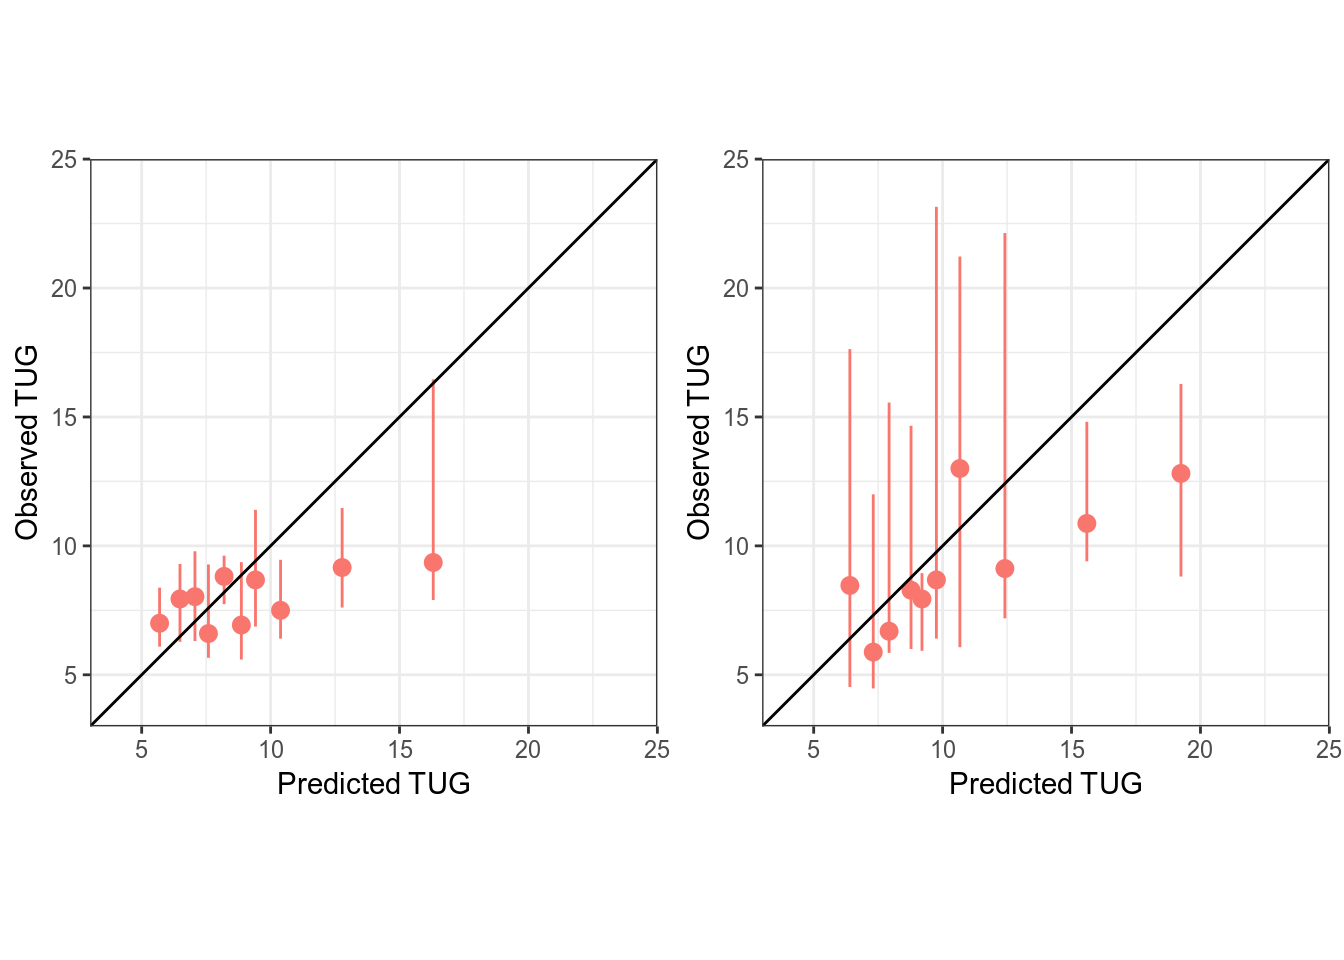
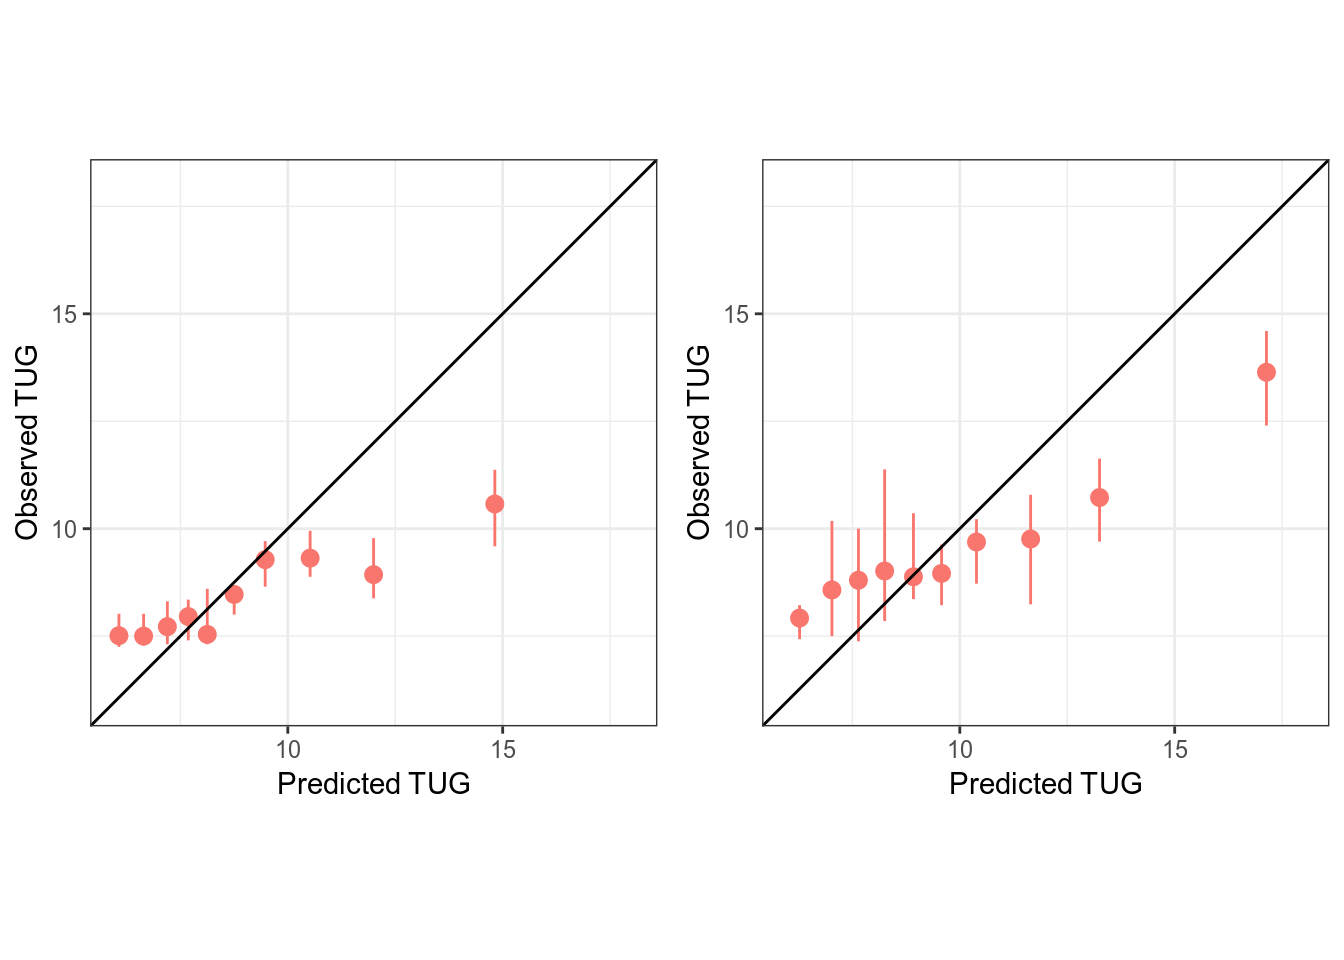
Remove the intervaled loocv_function() run.. need to add appropriate functionality

diff --git a/readme.md b/readme.md
@@ -120,7 +120,7 @@ test_proc %>% str(max.level=1)
 res <- loocv_function(
   
   # specify number or vector of numbers from {1,...,total number of patients in training data} 
-  nearest_n = c(13:14),
+  nearest_n = c(35:37),
   # enter training and testing post operative and fitted y90 dataset
   train_post = test_proc$train_post,
   ord_data = test_proc$train_o,
@@ -129,7 +129,6 @@ res <- loocv_function(
   # Specify outcome variable and time variable name
   outcome = "tug",
   time_elapsed = "time",
-  interval = 10,
 
   # Specify number of cores for parallel processing
   parallel=3,
@@ -146,78 +145,78 @@ res <- loocv_function(
   d_f_s=1,
   
   # Specify distribution for location, scale and shape 
-  #dist_fam = gamlss.dist::NO)
   dist_fam = gamlss.dist::NO)
-## PREDICTING FOR TEST = 408
-## PREDICTING FOR TEST = 443
-## PREDICTING FOR TEST = 604
-## PREDICTING FOR TEST = 450
-## PREDICTING FOR TEST = 492
-## PREDICTING FOR TEST = 536
-## Current count is: 1
-## PREDICTING FOR TEST = 516
-## PREDICTING FOR TEST = 595
-## PREDICTING FOR TEST = 564
-## Current count is: 11
-## Current count is: 21
-## Current count is: 31
-## PREDICTING FOR TEST = 565
-## Current count is: 41
-## Current count is: 51
-## PREDICTING FOR TEST = 411
-## Current count is: 61
-## PREDICTING FOR TEST = 574
-## Current count is: 71
-## PREDICTING FOR TEST = 493
-## PREDICTING FOR TEST = 541
-## Current count is: 81
 ## Warning in predict.gamlss(obj, what = "sigma", newdata = newx, type = "response", : There is a discrepancy  between the original and the re-fit 
 ##  used to achieve 'safe' predictions 
 ## 
-## Current count is: 91
-## PREDICTING FOR TEST = 531
-## Current count is: 101
-## Current count is: 111
-## PREDICTING FOR TEST = 520
-## Current count is: 121
-## Current count is: 131
-## Current count is: 141
-## Current count is: 151
-## Current count is: 161
-## Current count is: 171
-## Current count is: 181
-## Current count is: 191
-## Current count is: 201
-## PREDICTING FOR TEST = 434
-## Current count is: 211
-## Current count is: 221
-## Current count is: 231
-## Current count is: 241
-## PREDICTING FOR TEST = 423
-## Current count is: 251
-## Current count is: 261
-## Current count is: 271
-## Current count is: 281
-## Current count is: 291
-## PREDICTING FOR TEST = 478
-## Current count is: 301
-## Current count is: 311
-## PREDICTING FOR TEST = 476
-## Current count is: 321
-## Current count is: 331
-## PREDICTING FOR TEST = 563
-## Current count is: 341
-## PREDICTING FOR TEST = 468
-## PREDICTING FOR TEST = 433
-## Current count is: 351
-## PREDICTING FOR TEST = 526
-## Current count is: 361
-## Current count is: 371
-## Current count is: 381
-## PREDICTING FOR TEST = 473
-## PREDICTING FOR TEST = 420
-## PREDICTING FOR TEST = 461
-## Current count is: 391
+
+## Warning in predict.gamlss(obj, what = "sigma", newdata = newx, type = "response", : There is a discrepancy  between the original and the re-fit 
+##  used to achieve 'safe' predictions 
+## 
+
+## Warning in predict.gamlss(obj, what = "sigma", newdata = newx, type = "response", : There is a discrepancy  between the original and the re-fit 
+##  used to achieve 'safe' predictions 
+## 
+
+## Warning in predict.gamlss(obj, what = "sigma", newdata = newx, type = "response", : There is a discrepancy  between the original and the re-fit 
+##  used to achieve 'safe' predictions 
+## 
+
+## Warning in predict.gamlss(obj, what = "sigma", newdata = newx, type = "response", : There is a discrepancy  between the original and the re-fit 
+##  used to achieve 'safe' predictions 
+## 
+
+## Warning in predict.gamlss(obj, what = "sigma", newdata = newx, type = "response", : There is a discrepancy  between the original and the re-fit 
+##  used to achieve 'safe' predictions 
+## 
+
+## Warning in predict.gamlss(obj, what = "sigma", newdata = newx, type = "response", : There is a discrepancy  between the original and the re-fit 
+##  used to achieve 'safe' predictions 
+## 
+
+## Warning in predict.gamlss(obj, what = "sigma", newdata = newx, type = "response", : There is a discrepancy  between the original and the re-fit 
+##  used to achieve 'safe' predictions 
+## 
+
+## Warning in predict.gamlss(obj, what = "sigma", newdata = newx, type = "response", : There is a discrepancy  between the original and the re-fit 
+##  used to achieve 'safe' predictions 
+## 
+
+## Warning in predict.gamlss(obj, what = "sigma", newdata = newx, type = "response", : There is a discrepancy  between the original and the re-fit 
+##  used to achieve 'safe' predictions 
+## 
+
+## Warning in predict.gamlss(obj, what = "sigma", newdata = newx, type = "response", : There is a discrepancy  between the original and the re-fit 
+##  used to achieve 'safe' predictions 
+## 
+
+## Warning in predict.gamlss(obj, what = "sigma", newdata = newx, type = "response", : There is a discrepancy  between the original and the re-fit 
+##  used to achieve 'safe' predictions 
+## 
+
+## Warning in predict.gamlss(obj, what = "sigma", newdata = newx, type = "response", : There is a discrepancy  between the original and the re-fit 
+##  used to achieve 'safe' predictions 
+## 
+
+## Warning in predict.gamlss(obj, what = "sigma", newdata = newx, type = "response", : There is a discrepancy  between the original and the re-fit 
+##  used to achieve 'safe' predictions 
+## 
+
+## Warning in predict.gamlss(obj, what = "sigma", newdata = newx, type = "response", : There is a discrepancy  between the original and the re-fit 
+##  used to achieve 'safe' predictions 
+## 
+
+## Warning in predict.gamlss(obj, what = "sigma", newdata = newx, type = "response", : There is a discrepancy  between the original and the re-fit 
+##  used to achieve 'safe' predictions 
+## 
+
+## Warning in predict.gamlss(obj, what = "sigma", newdata = newx, type = "response", : There is a discrepancy  between the original and the re-fit 
+##  used to achieve 'safe' predictions 
+## 
+
+## Warning in predict.gamlss(obj, what = "sigma", newdata = newx, type = "response", : There is a discrepancy  between the original and the re-fit 
+##  used to achieve 'safe' predictions 
+## 
 ```
 
 ### Plots: plot\_cal() returns a plot of the performance measures from the LOOCV
